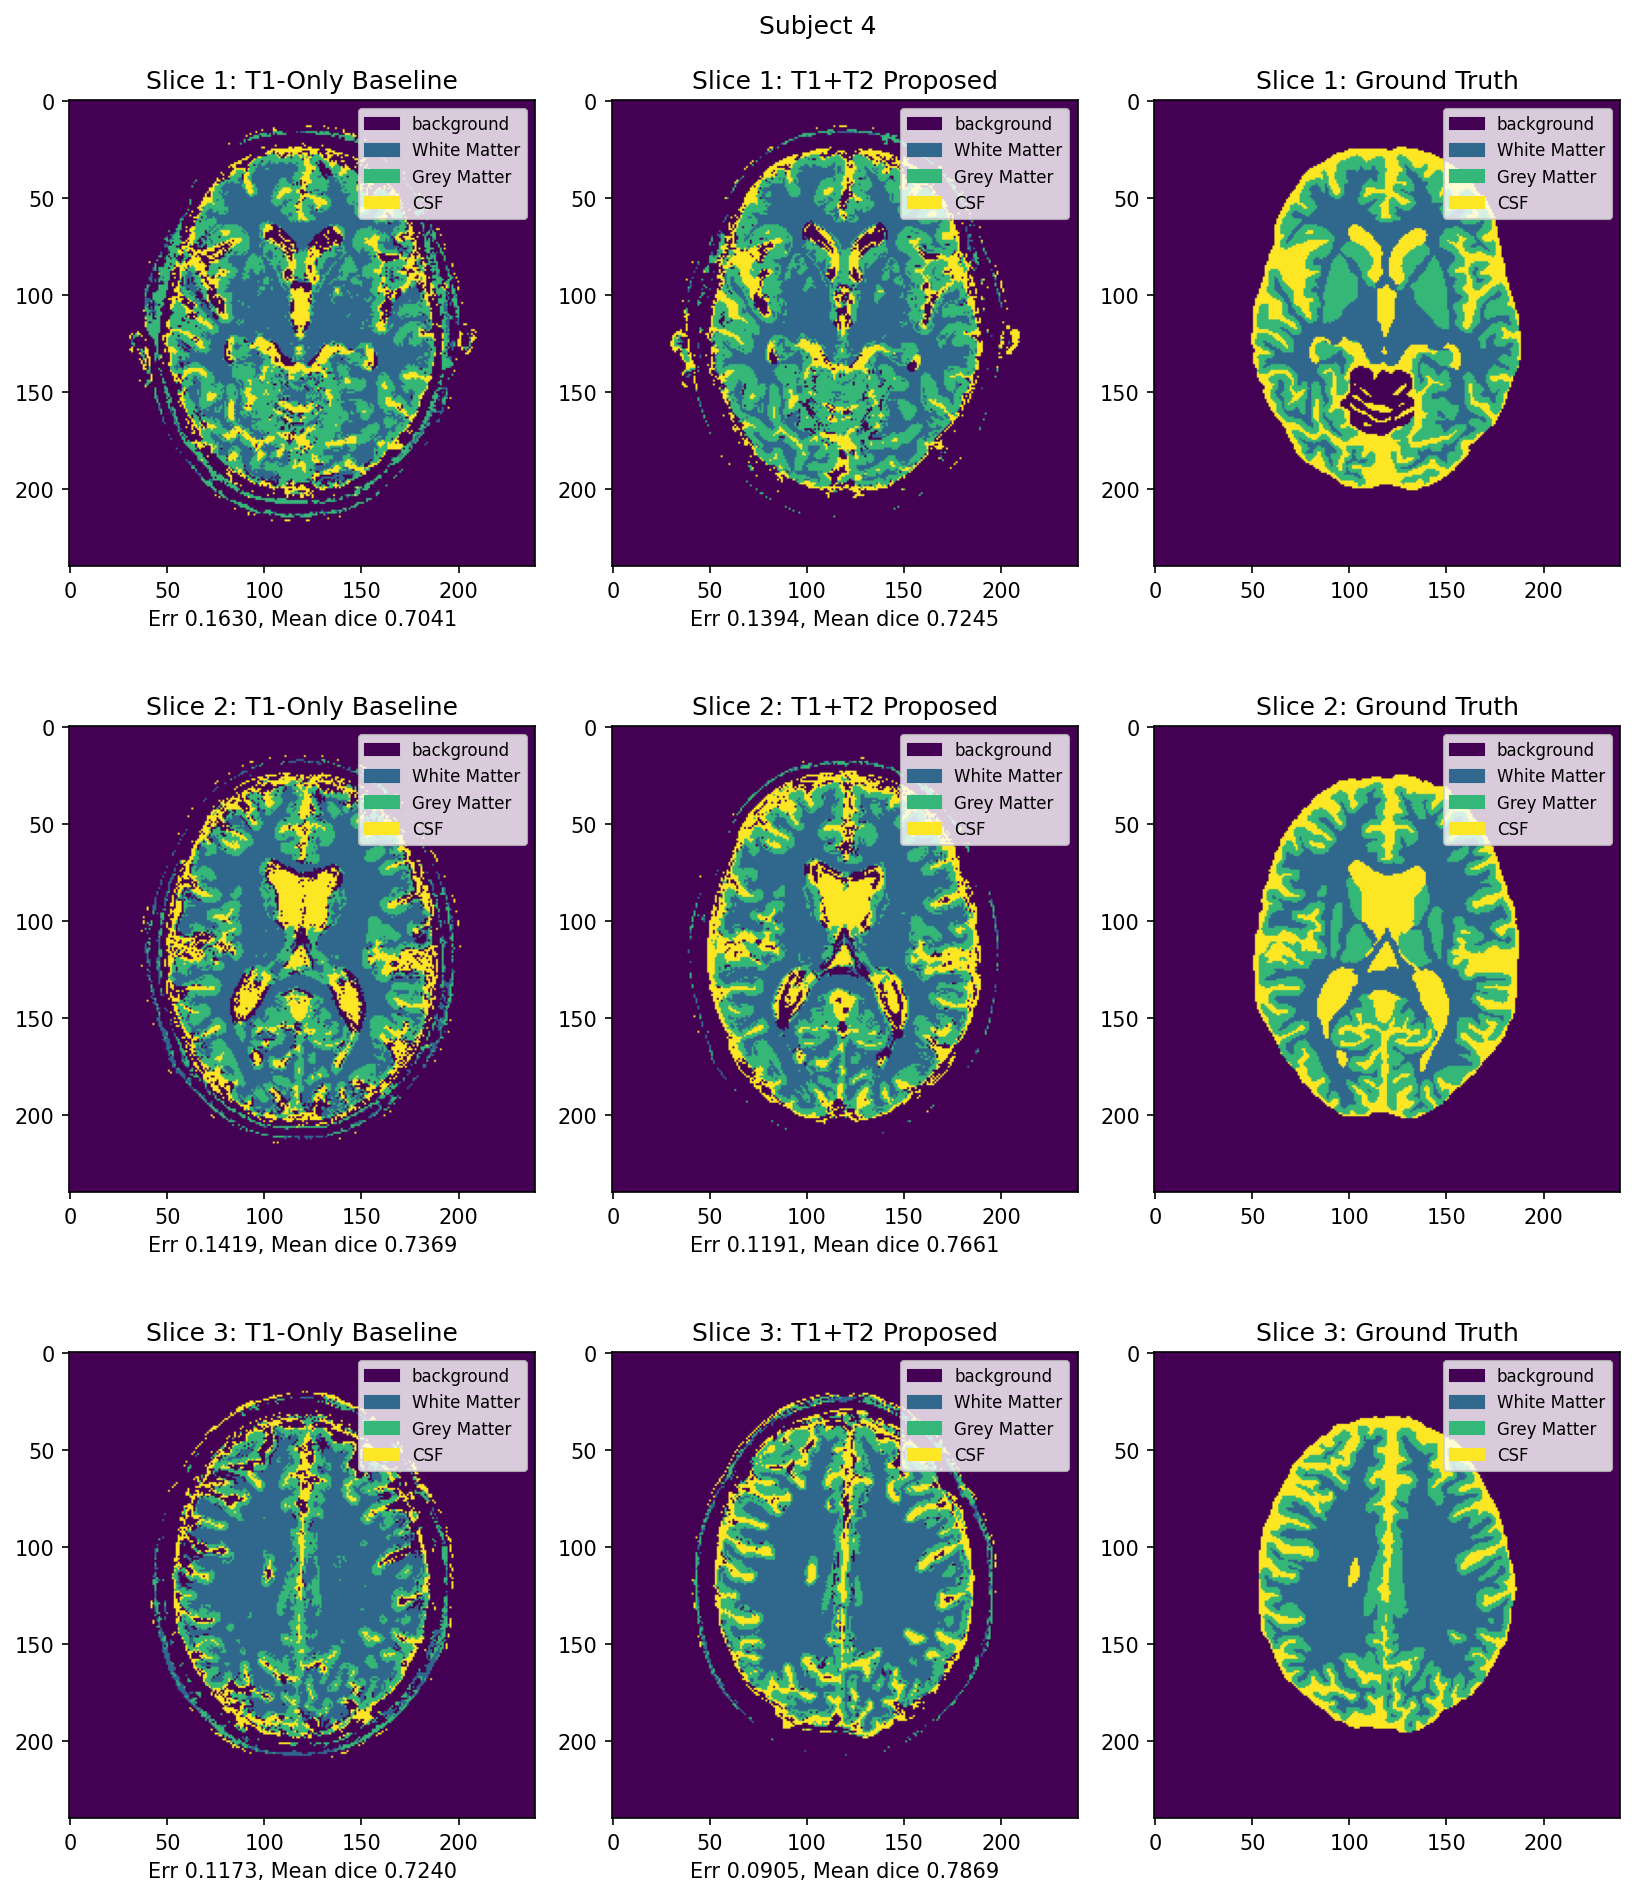
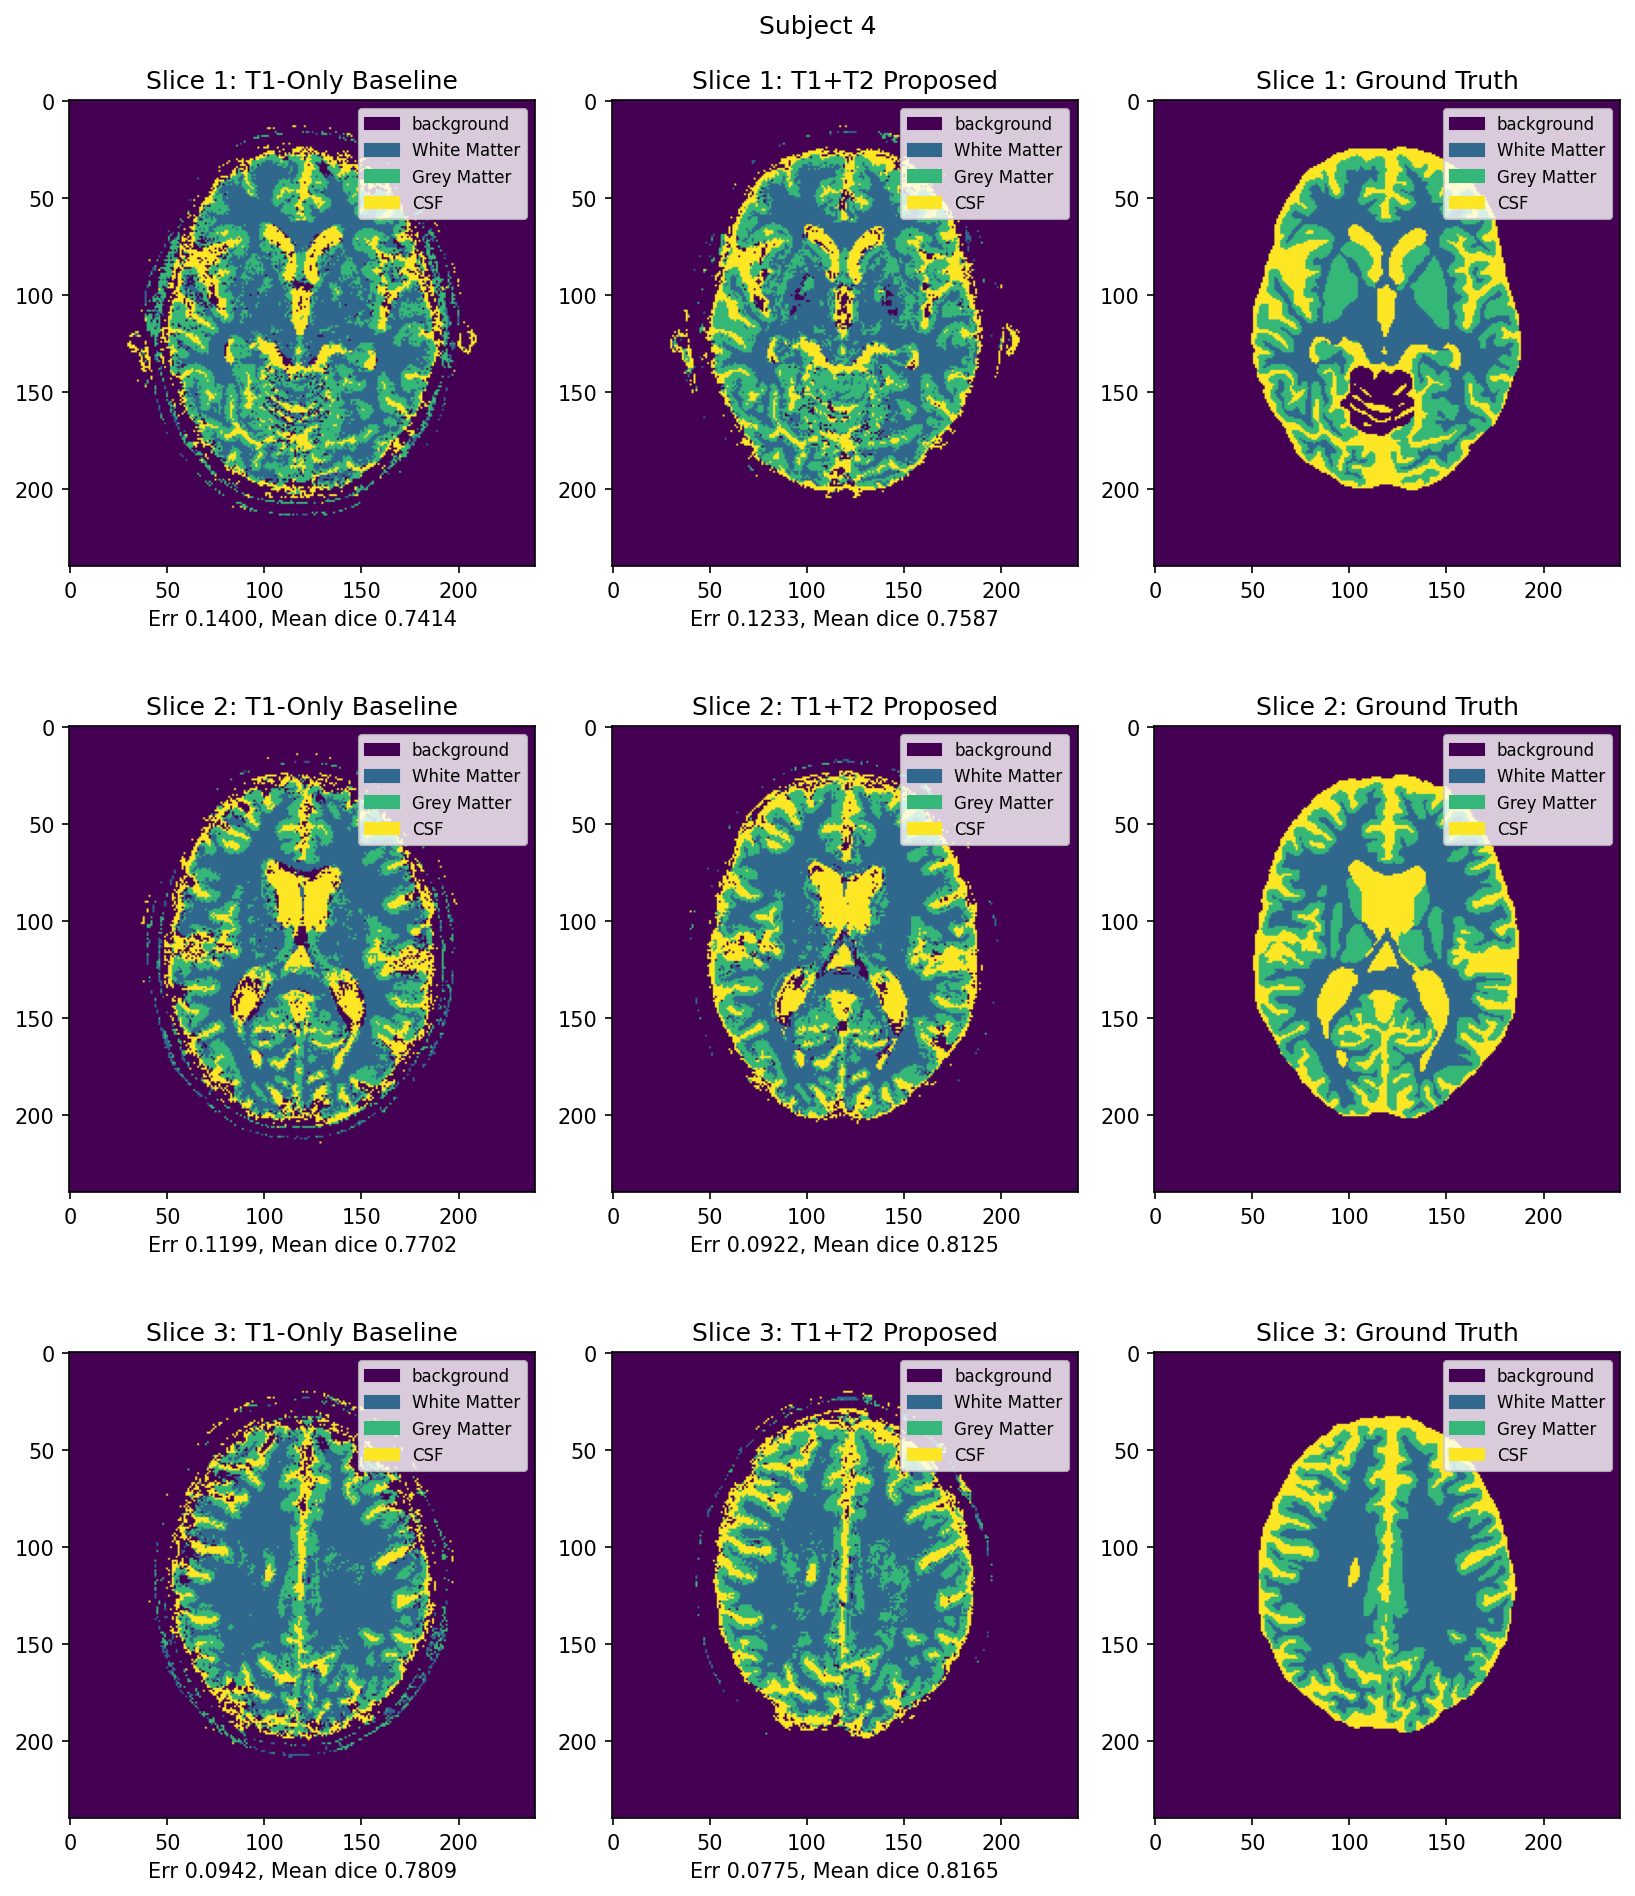
Run met 200.000 num_samples

diff --git a/Segmentation/code/segmentation.py b/Segmentation/code/segmentation.py
@@ -292,7 +292,7 @@ def segmentation_knn(train_data, train_labels, test_data, k=1):
     # predicted_labels - Predicted labels for the test slice
     
     # Subsample training data for efficiency
-    num_samples=3000
+    num_samples=200000
     ix = np.random.randint(train_data.shape[0], size=num_samples)
 
     subset_train_data = train_data[ix,:]

diff --git a/Segmentation/code/segmentation_project.py b/Segmentation/code/segmentation_project.py
@@ -160,6 +160,6 @@ def segmentation_demo():
         fig.savefig(f"Test_{sub}.png", dpi=150, bbox_inches='tight')
         plt.show()
 
-    print("All dice scores:", dice_score_list)
+    print("All dice scores:\n\tT1-only\t\t\t\tT1+T2")
     for i in dice_score_list:
-        print(i[0], i[1])
+        print('\t', i[0], i[1])
